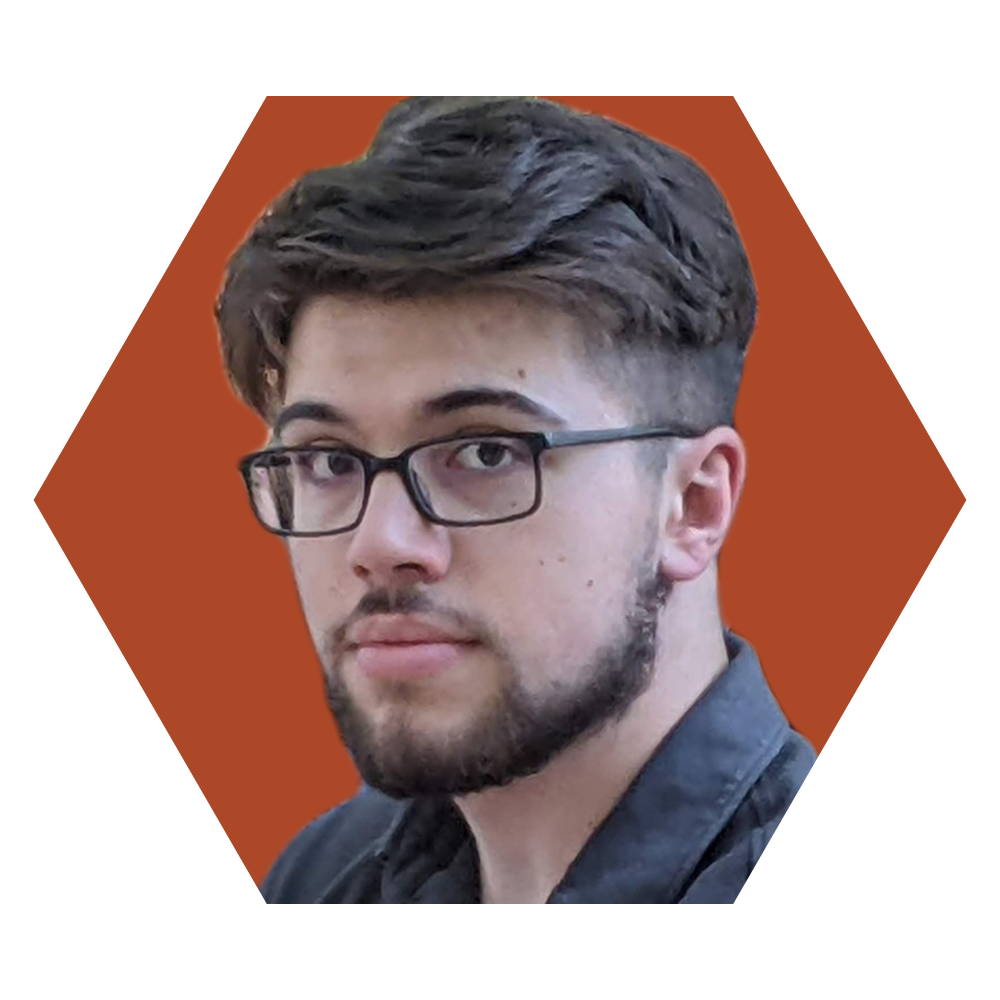
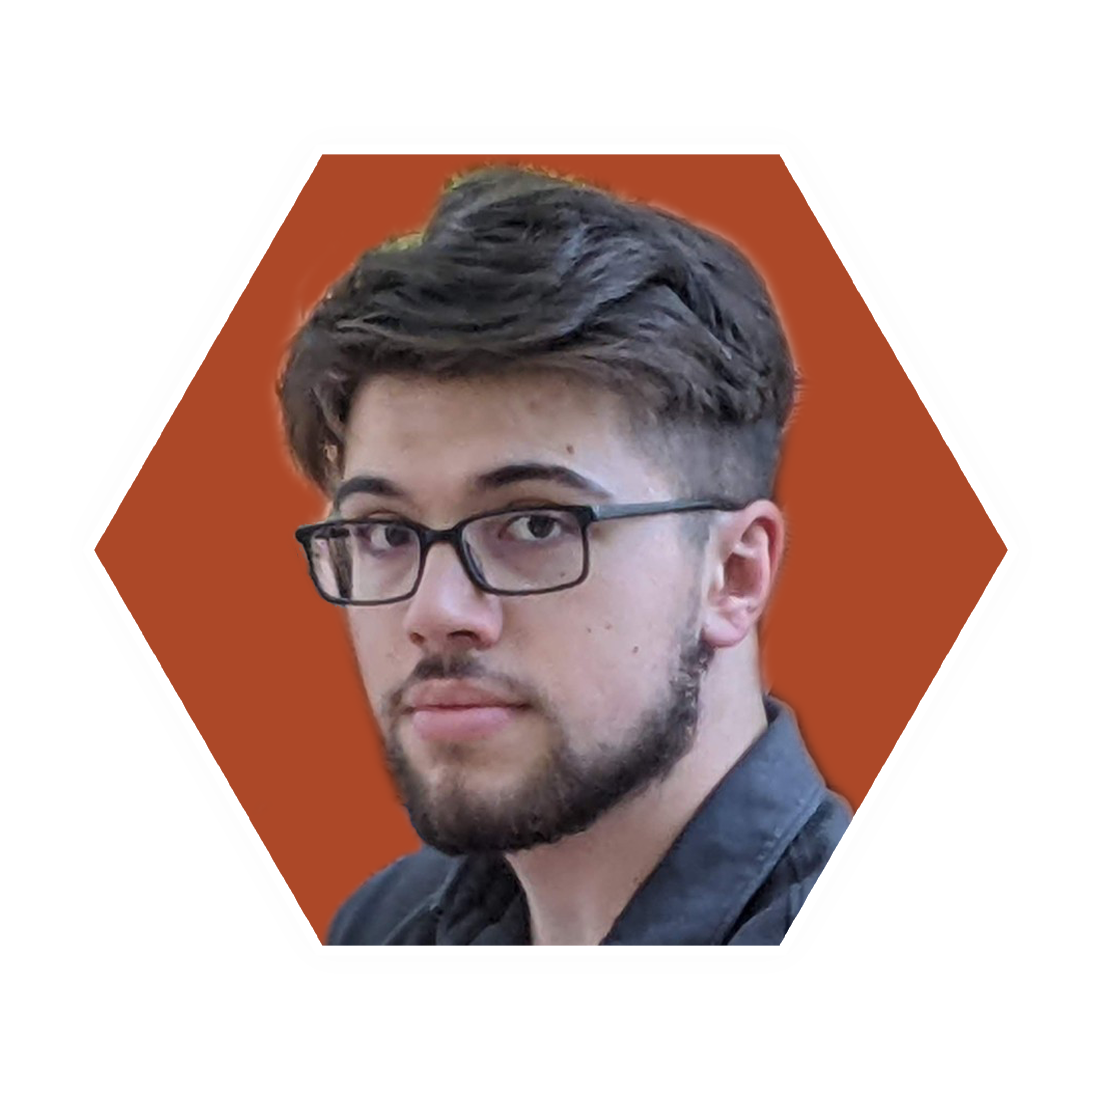
add glow to headshot pic and resize it

diff --git a/myapp/src/App.css b/myapp/src/App.css
@@ -114,8 +114,9 @@ main {
 }
 
 .hexhs {
-  width: 38vw; /* 79vh */
+  width: 41vw; /* 79vh */
   margin-top: 14vh;
+  margin-left: -1vw;
 }
 
 .hexhsContainer {
@@ -223,7 +224,7 @@ h1 {
     font-size: 5.8vh; 
   }
   .hexhs {
-    width: 40vw;
+    width: 43vw;
   }
 }
 
@@ -232,7 +233,7 @@ h1 {
     font-size: 7.5vh;
   }
   .hexhs {
-    width: 45vw;
+    width: 48vw;
   }
 } 
 
@@ -247,7 +248,7 @@ h1 {
     font-size: 2.5vh;
   }
   .hexhs {
-    width: 48vw;
+    width: 50vw;
   }
   .resumeBtn {
     font-size: 2.6vh;
@@ -273,7 +274,7 @@ h1 {
     font-size: 2.4vh;
   }
   .hexhs {
-    width: 50vw;
+    width: 52vw;
   }
   .resumeBtn {
     font-size: 2.1vh;
@@ -300,13 +301,15 @@ h1 {
   }
   h2 {
     font-size: 3.25vh;
+    margin-top: -3vh;
   }
   p {
     font-size: 2.4vh;
   }
   .hexhs {
-    width: 50vw;
+    width: 53vw;
     margin-top: 0;
+    margin-left: 0;
   }
   .resumeBtn {
     font-size: 2.3vh;
@@ -349,6 +352,9 @@ h1 {
     text-align: center;
     width: 100%;
   } 
+  .aboutMe {
+    height: 90vh;
+  }
 } 
 
 
